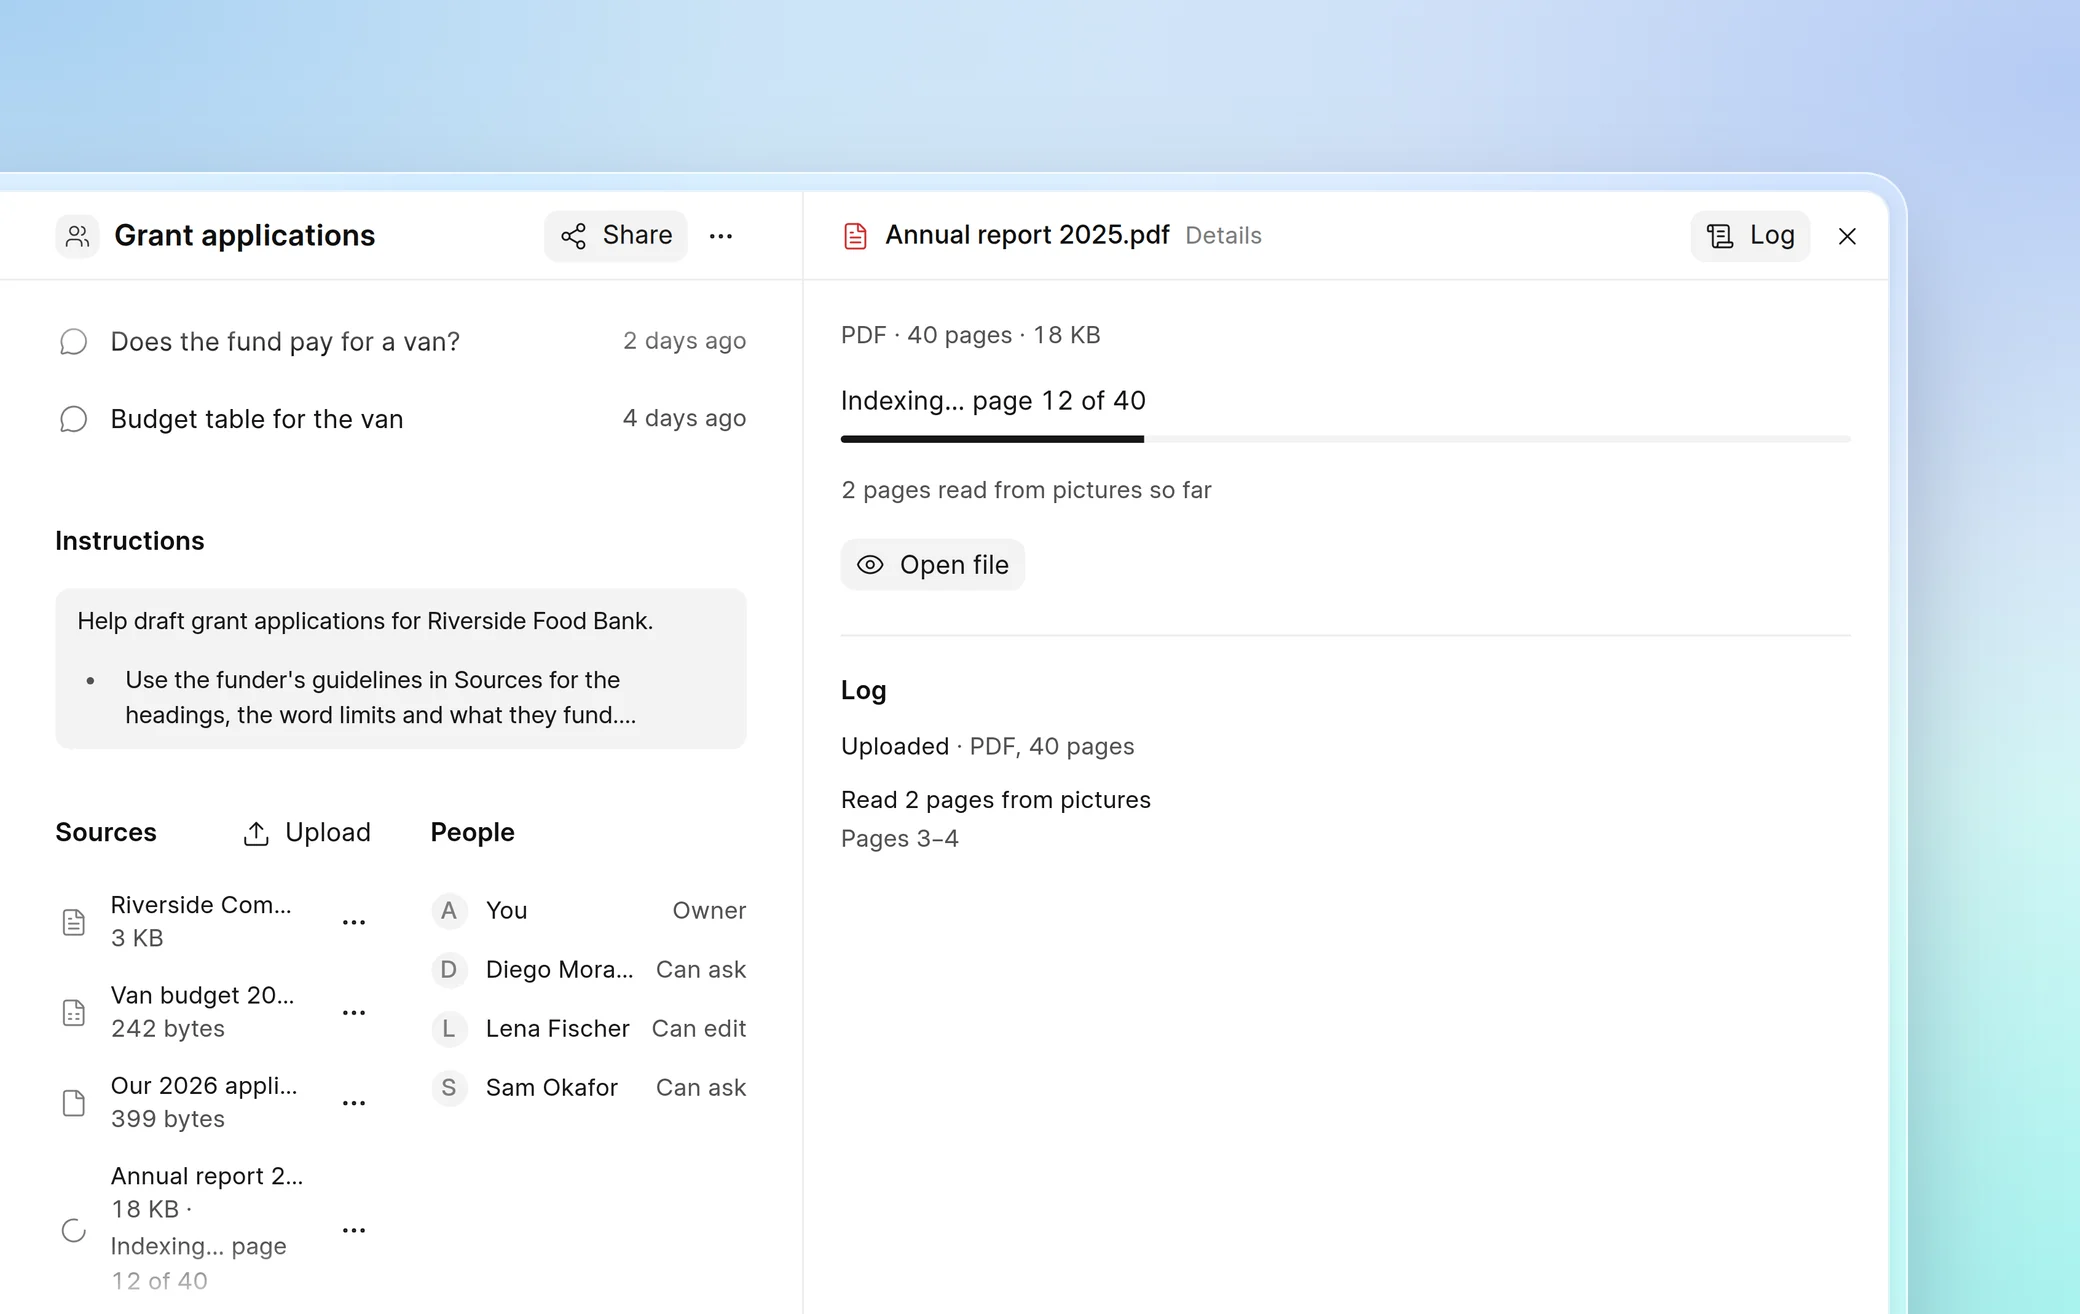
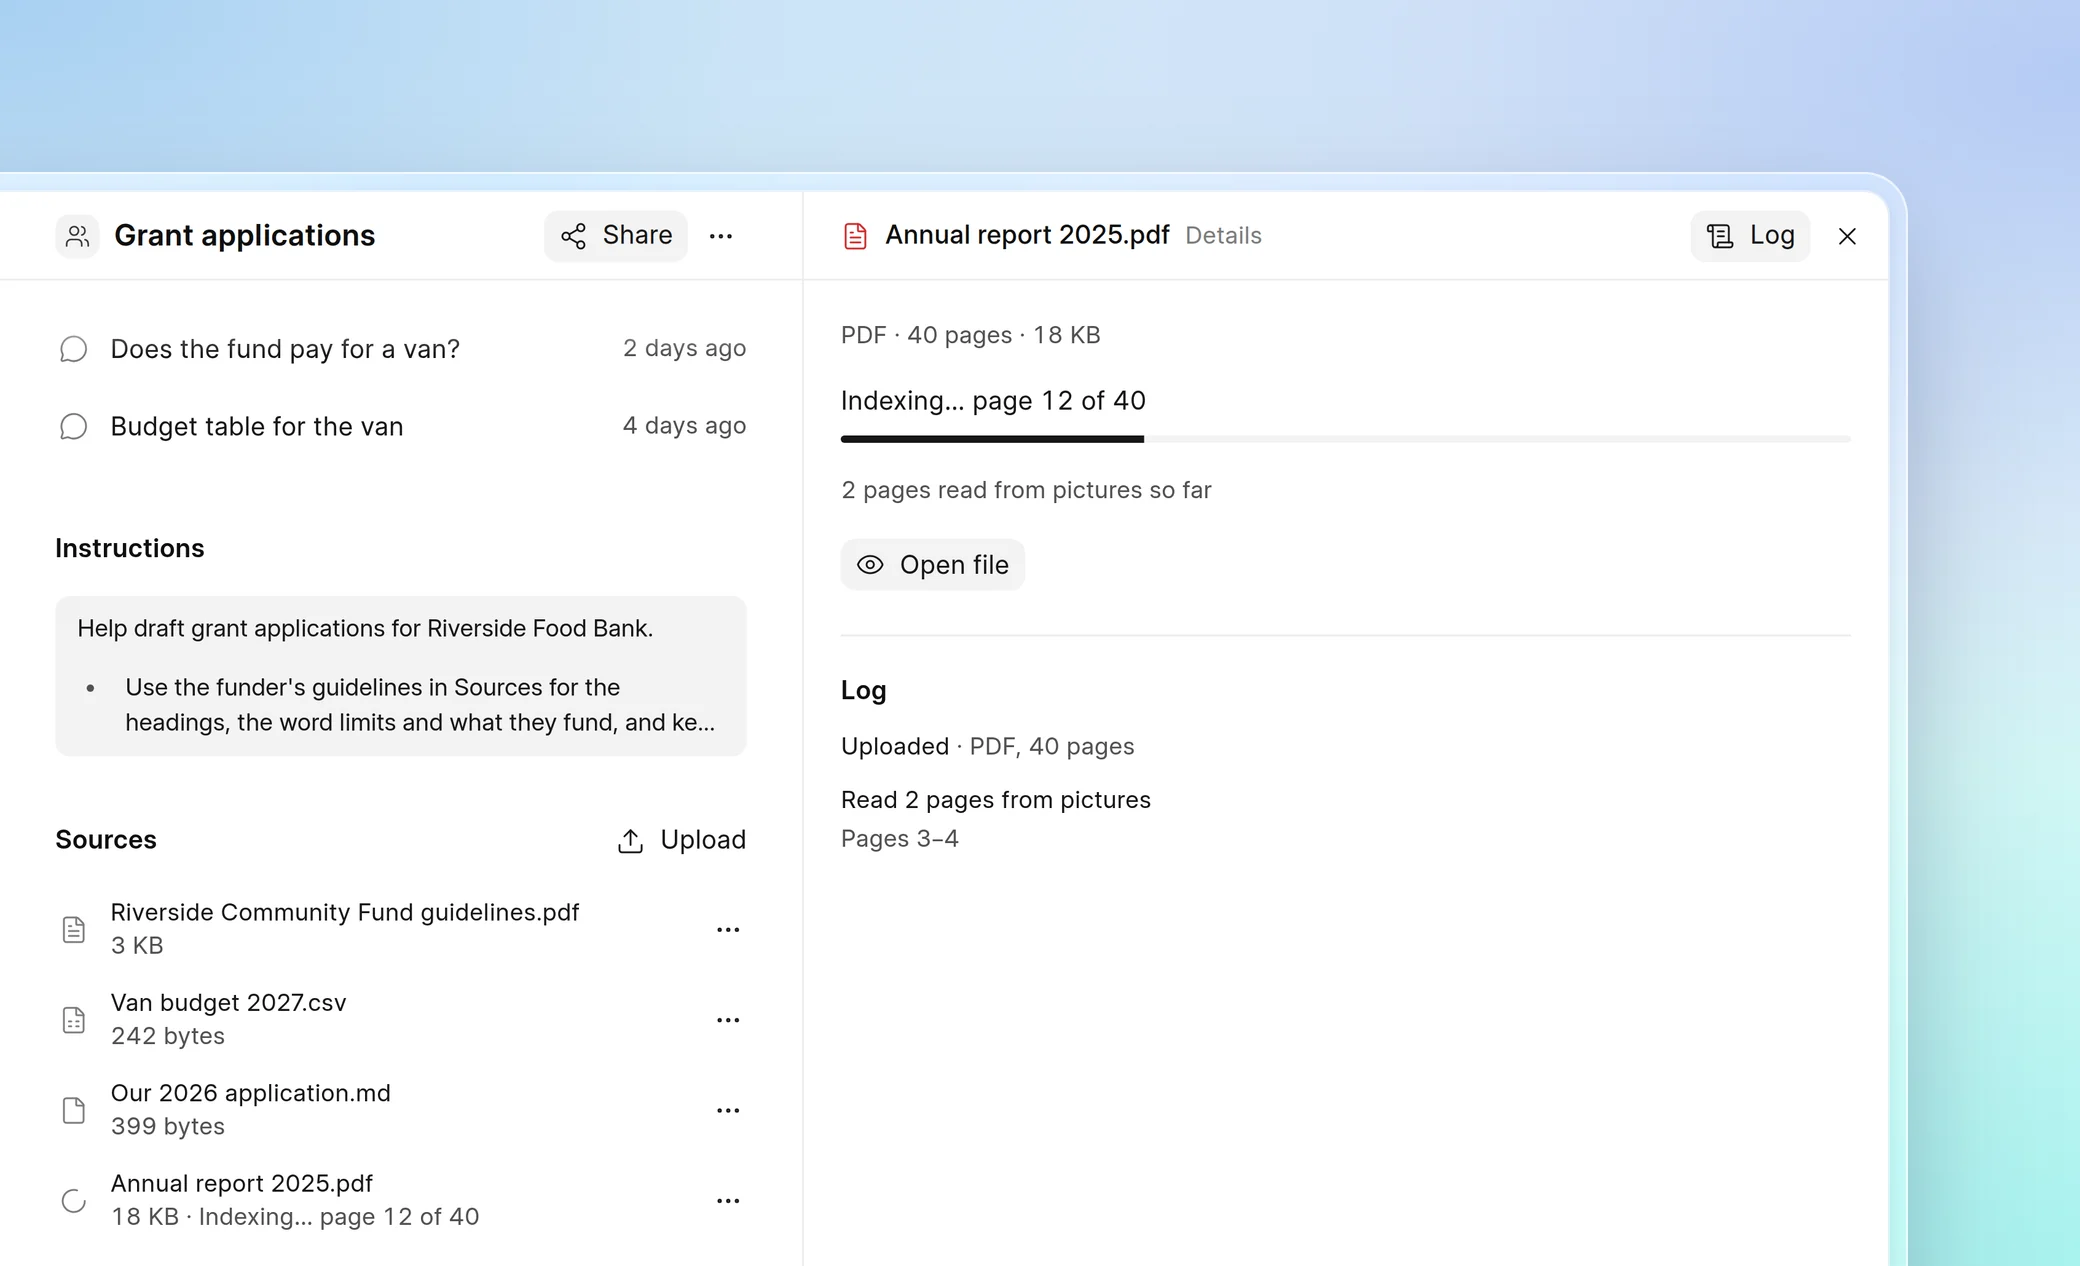
docs: take the workspace images again after the layout fixes
Sources and People now stack beside a source's Details, and the
instructions preview clamps inside its padding. The grant instructions
are a little longer, so the clamped preview ends mid-sentence.

diff --git a/scripts/demo/seed.ts b/scripts/demo/seed.ts
@@ -832,7 +832,7 @@ function workspaces(demo: string, others: string[]): DemoWorkspace[] {
 			instructions: [
 				"Help draft grant applications for Riverside Food Bank.",
 				"",
-				"- Use the funder's guidelines in Sources for the headings, the word limits and what they fund.",
+				"- Use the funder's guidelines in Sources for the headings, the word limits and what they fund, and keep to their order.",
 				"- Every number comes from our budget or the annual report. Mark anything else [check].",
 				"- Write \"we\", not \"the organization\".",
 			].join("\n"),
